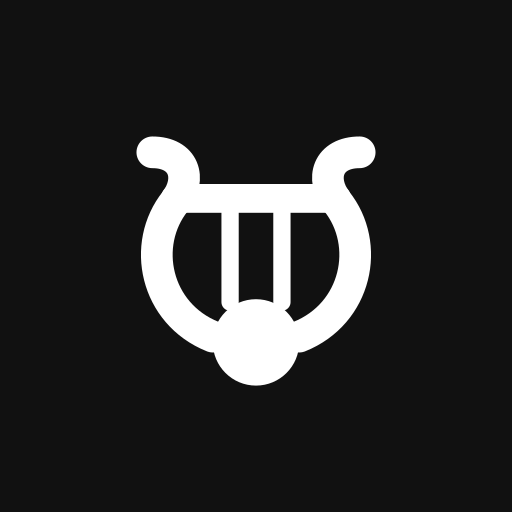
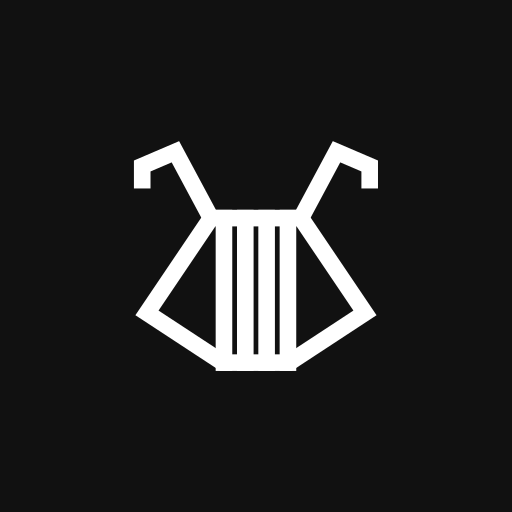
Draw the Apollon lyre in strokes
The mark is now a lyre made of straight strokes with square caps: a top bar,
a body that flares out to a bowl with a flat base, four strings, and two arms
bent like horns with a small hook. One colour, no fills, no circles.
The header mark, favicon and app icons use it.

Changed region(s): [[0.25, 0.25, 0.75, 0.7188], [0.4375, 0.7188, 0.5625, 0.75]]

diff --git a/apps/web/src/ui/brand/Wordmark.tsx b/apps/web/src/ui/brand/Wordmark.tsx
@@ -4,17 +4,24 @@ import { APP_NAME } from "./brand.ts";
 const mark = css({ flexShrink: 0, color: "ink" });
 const row = css({ display: "inline-flex", alignItems: "center", gap: "8px" });
 
-/** The lyre (brand/mark.svg), in one colour: the current ink. */
+/** The lyre (brand/mark.svg), drawn in strokes, in one colour: the current ink. */
 export function Mark({ size = 20 }: { size?: number }) {
   return (
-    <svg width={size} height={size} viewBox="10 8 44 48" className={mark} aria-hidden="true">
-      <g fill="none" stroke="currentColor" strokeLinecap="round" strokeLinejoin="round">
-        <path d="M24.5 44 C 14.5 40, 12 28, 18 20.5 C 21 16.5, 19.5 12, 14 12" strokeWidth={5.5} />
-        <path d="M39.5 44 C 49.5 40, 52 28, 46 20.5 C 43 16.5, 44.5 12, 50 12" strokeWidth={5.5} />
-        <path d="M18 20 H 46" strokeWidth={5} />
-        <path d="M27.5 21 V 38 M36.5 21 V 38" strokeWidth={3} />
-      </g>
-      <circle cx="32" cy="45" r="7.5" fill="currentColor" />
+    <svg
+      width={size}
+      height={size}
+      viewBox="12 24 216 208"
+      className={mark}
+      aria-hidden="true"
+      fill="none"
+      stroke="currentColor"
+      strokeWidth={14}
+      strokeLinecap="square"
+      strokeLinejoin="miter"
+    >
+      <path d="M82 96 H158 L212 176 L148 218 H92 L28 176 Z" />
+      <path d="M82 96 L52 40 L24 52 V64 M158 96 L188 40 L216 52 V64" />
+      <path d="M93 96 V218 M111 96 V218 M129 96 V218 M147 96 V218" />
     </svg>
   );
 }
